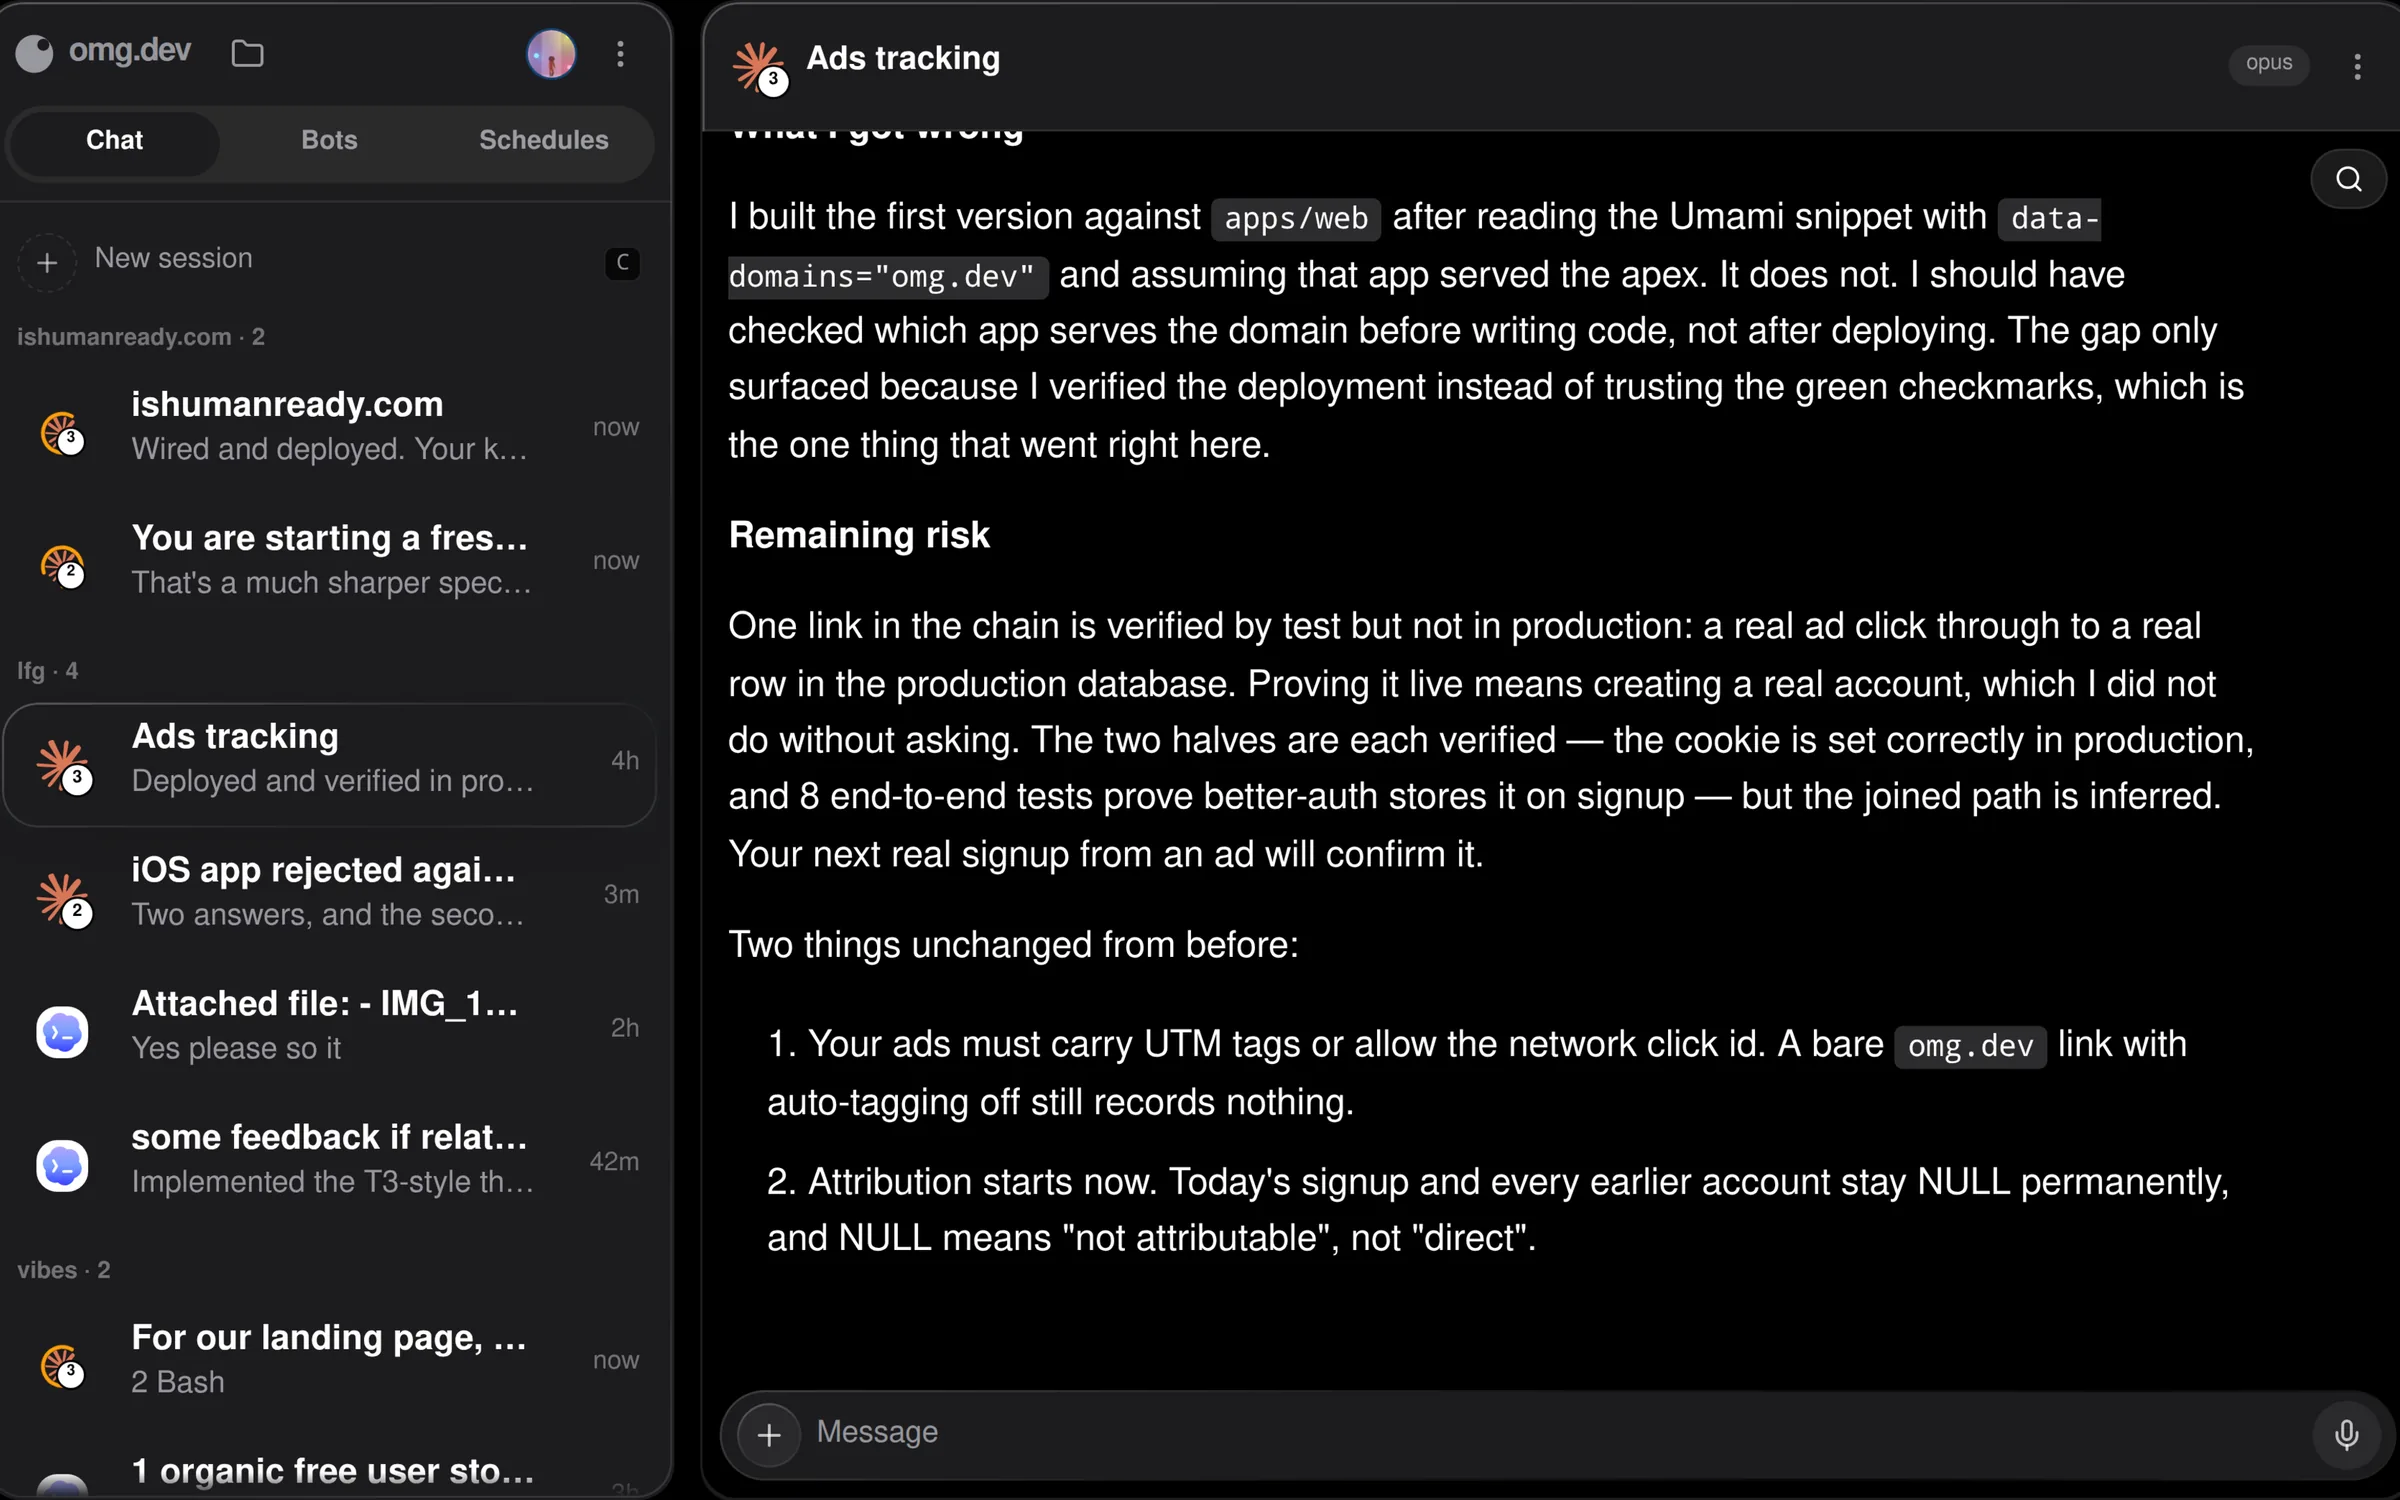
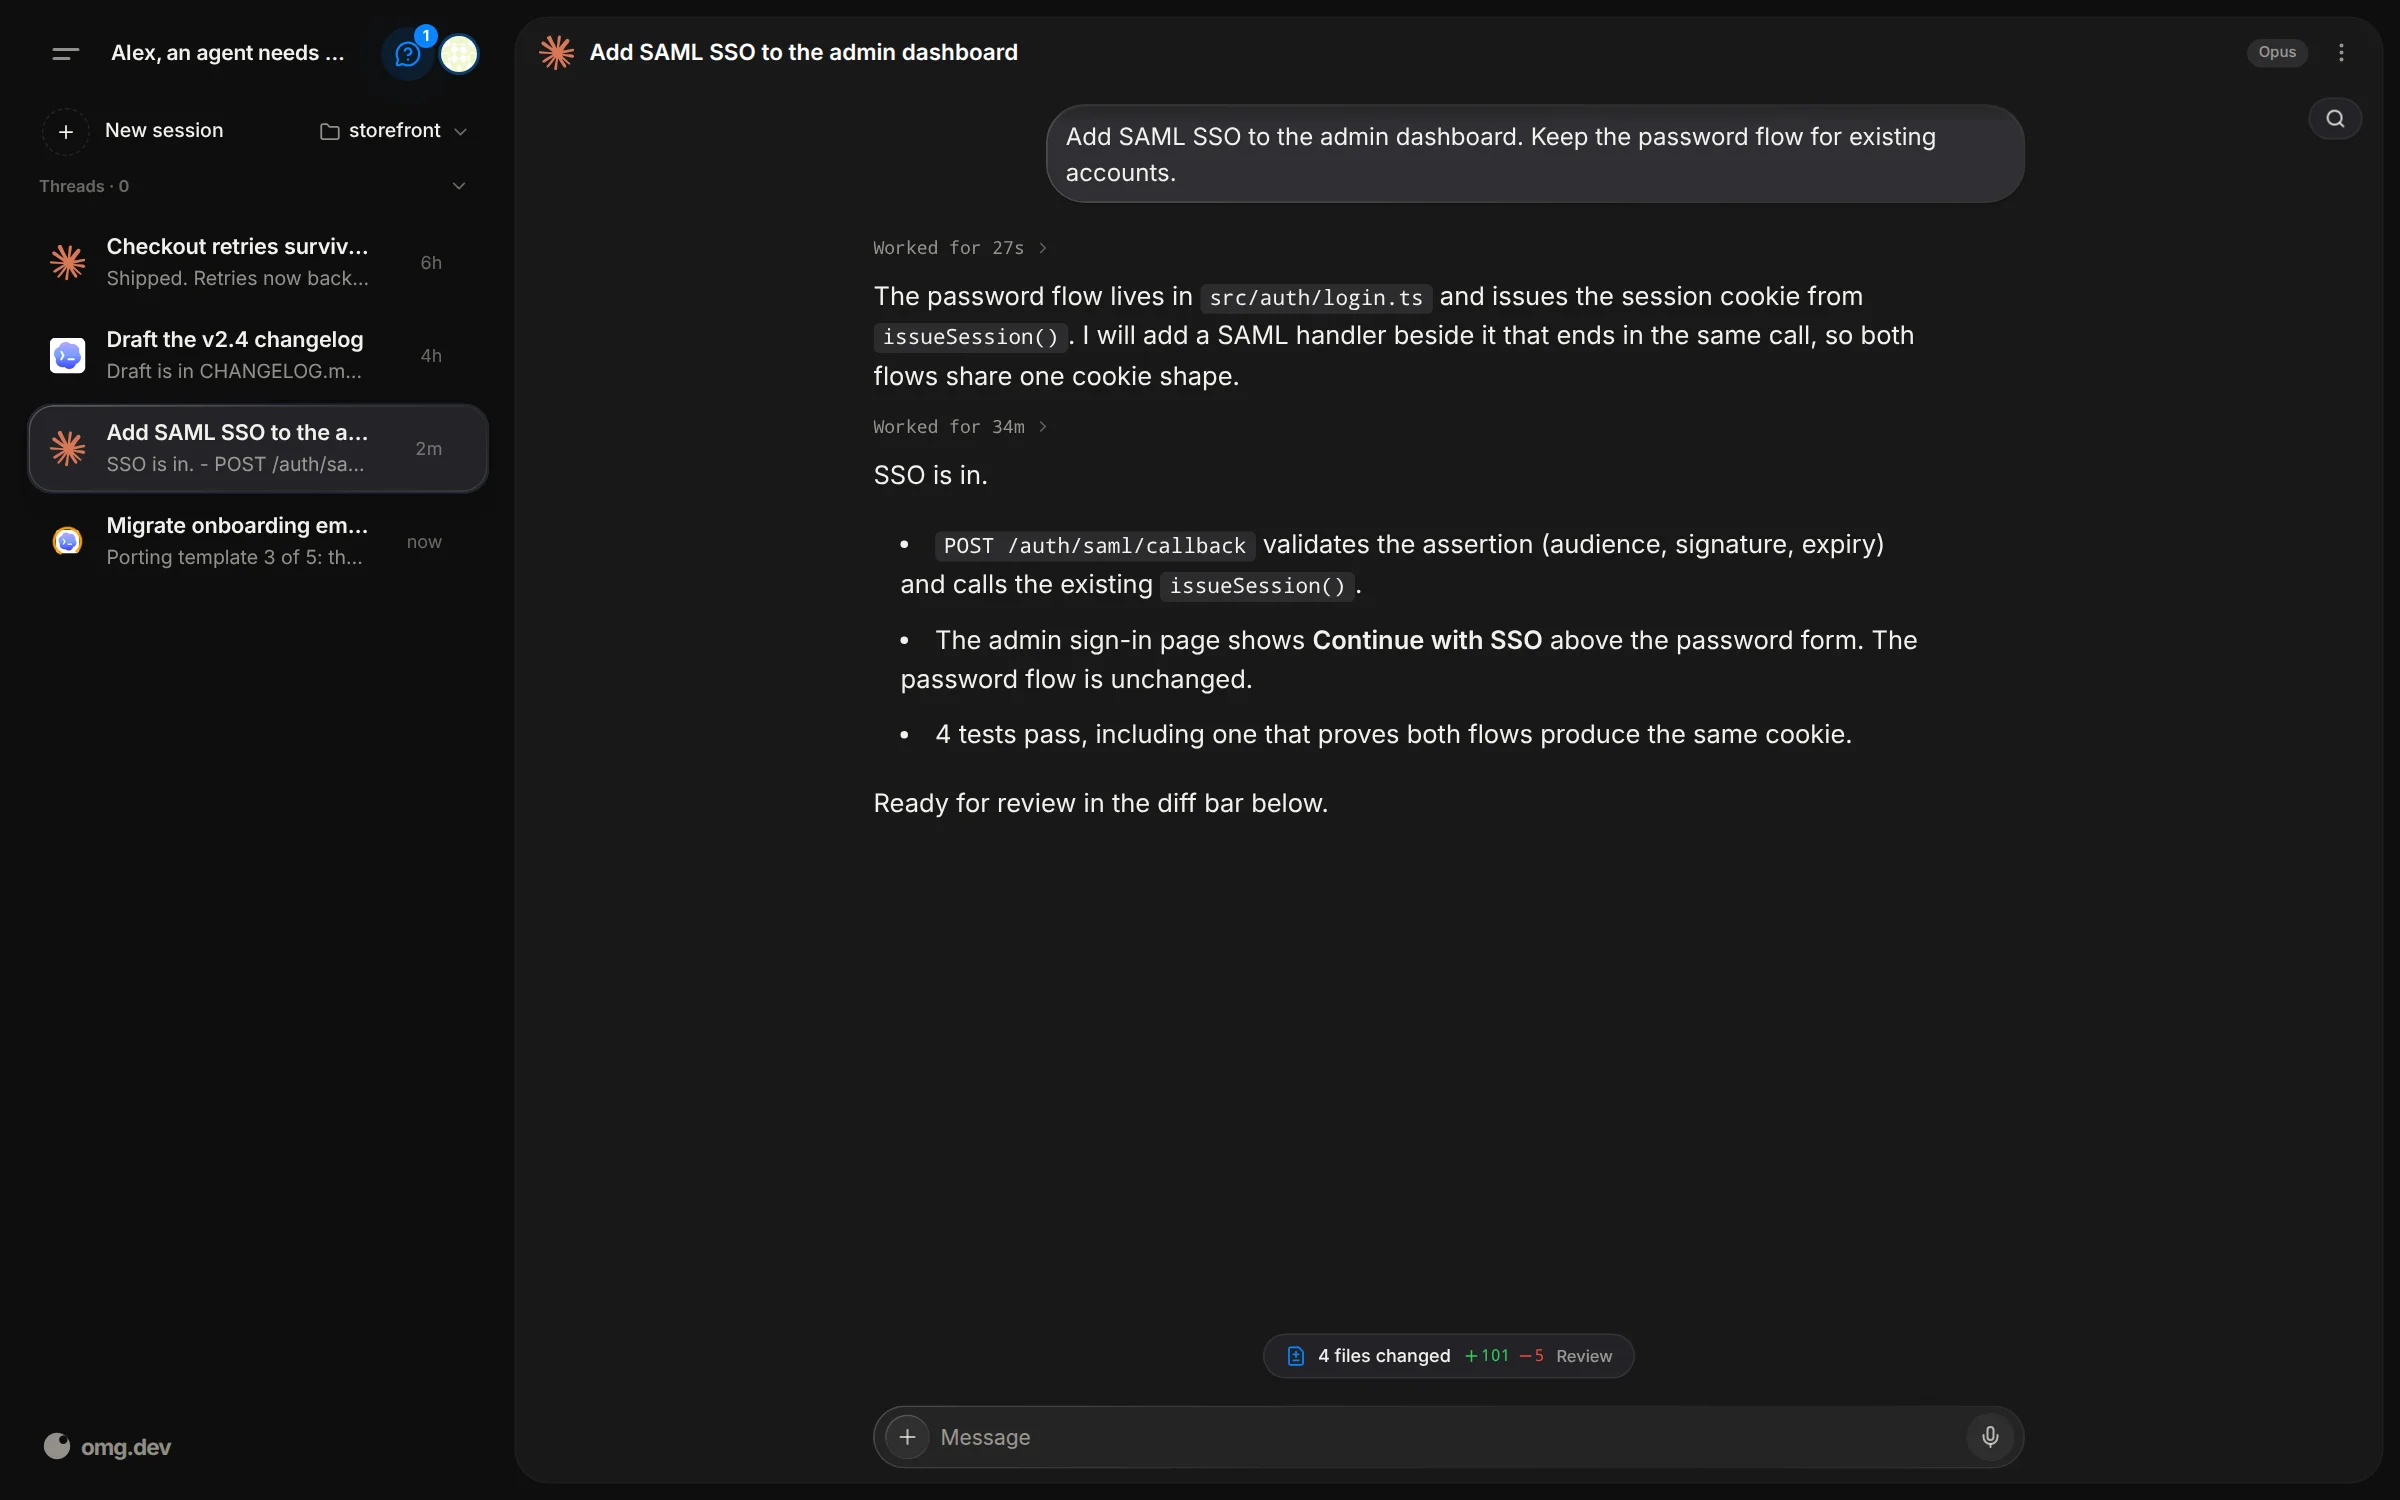
docs(readme): say self-host is free and hosted is paid (#359)
* docs(readme): say self-host is free and hosted is paid

Visitors from GitHub expected the hosted product to be free. A short
table near the top now states both options and their price.

* docs(readme): replace hero screenshot with seeded demo capture

The old capture came from a real account and showed real session titles.
The new one is the engineer demo persona: four sessions, a transcript and
the diff bar, all seeded fiction. Same 2400x1500 size.

* docs(readme): show the hero screenshot in dark mode

Same seeded engineer demo capture, rendered with ?theme=dark.

* docs(readme): replace iPhone screenshots with landing demo captures

The old iOS captures came from a real account. One showed real user
email addresses. Use the seeded phone captures from the omg.dev landing
page instead (home, Live Activity, widget), and drop the unused
omg-chat-mobile.webp, which also showed real sessions.

* docs(readme): lead with "Build your ideas on the go", drop role section

Match the omg.dev landing page: the tagline and intro now use its
headline and lead. Remove the "Built for every role" persona grid and
its images, and give the phone row its own heading from the landing.

* docs(readme): drop "pay us to host it" from the intro

---------

diff --git a/README.md b/README.md
@@ -4,10 +4,13 @@
 
 # omg.dev
 
-**Not 10 interfaces. One portal for all your agents.**
+**Build your ideas on the go.**
 
-Open-source parallel coding agent harness. Run agents on your computer.
-Control them from one UI. Install locally, or start with a hosted Computer.
+Give your agents a task from your phone. Get a notification when the result is
+ready. Your laptop can stay closed.
+
+Open-source harness for Claude Code, Codex, and other coding agents. Install it
+yourself for free.
 
 [![License: MIT](https://img.shields.io/badge/License-MIT-blue.svg)](./LICENSE)
 [![GitHub release](https://img.shields.io/github/v/release/BennyKok/omg.dev?label=release)](https://github.com/BennyKok/omg.dev/releases)
@@ -18,8 +21,19 @@ Control them from one UI. Install locally, or start with a hosted Computer.
 <p align="center">
   <img src="./docs/images/omg-chat.webp" alt="omg.dev showing a list of coding-agent sessions and an active agent transcript" width="70%" />
   &nbsp;
-  <img src="./docs/images/ios/live.webp" alt="omg.dev iOS app on the simulator, Live session list" width="22%" />
+  <img src="./docs/images/ios/home.webp" alt="omg.dev iOS app home screen: agent sessions across several repositories" width="22%" />
 </p>
+
+## Free or hosted
+
+|                | Self-host                    | Hosted on omg.dev                                    |
+| -------------- | ---------------------------- | ---------------------------------------------------- |
+| **Price**      | Free (MIT)                   | Free plan to try. Paid plans from $19/mo.            |
+| **Runs on**    | Your Mac or Linux machine    | A cloud computer we run for you                      |
+| **You manage** | Install and updates          | Nothing                                              |
+| **Start**      | [Install below](#install-on-your-computer) | [app.omg.dev](https://app.omg.dev/) · [Pricing](https://omg.dev/pricing) |
+
+Both use the agent subscription you already pay for, such as Claude or ChatGPT.
 
 ## Install on your computer
 
@@ -47,44 +61,22 @@ Or **System Settings → Privacy & Security → Open Anyway**.
 
 ## Use the hosted version
 
-No local server. Runs in the cloud, opens in the browser.
+No local server. Runs in the cloud, opens in the browser. This is a paid
+service with a free plan. See [pricing](https://omg.dev/pricing).
 
 [**Start with a hosted Computer →**](https://app.omg.dev/)
 
 iPhone: [omg.dev on the App Store](https://apps.apple.com/us/app/omg-dev/id6800792515)
 
-## Built for every role
+## Pick a task. Put the phone down.
 
-PMs, engineers, growth, and sales share the same sessions.
-
-<table>
-  <tr>
-    <td width="50%">
-      <img src="./docs/images/personas/pm-1600.webp" alt="omg.dev Board: Needs you, Working, Idle and Shipped columns of agent sessions" />
-      <p><strong>PM.</strong> Needs you, Working, Idle, Shipped.</p>
-    </td>
-    <td width="50%">
-      <img src="./docs/images/personas/engineer-1600.webp" alt="omg.dev session with the diff view open, showing a patch file by file" />
-      <p><strong>Engineer.</strong> Worktree diff, then merge.</p>
-    </td>
-  </tr>
-  <tr>
-    <td width="50%">
-      <img src="./docs/images/personas/growth-1600.webp" alt="omg.dev chat where an agent answers with an interactive funnel chart from the database" />
-      <p><strong>Growth.</strong> Ask in chat. Chart from your database.</p>
-    </td>
-    <td width="50%">
-      <img src="./docs/images/personas/sales-1600.webp" alt="omg.dev chat turning call recordings into objections, risk per deal and follow-ups" />
-      <p><strong>Sales.</strong> Calls to objections, risk, follow-ups.</p>
-    </td>
-  </tr>
-</table>
+Start a task from the app. Your agents work on your computer. You get a
+notification when it is done.
 
 <p align="center">
-  <img src="./docs/images/ios/live.webp" alt="omg.dev iOS: Live session list" width="24%" />
-  <img src="./docs/images/ios/session.webp" alt="omg.dev iOS: session with an agent question" width="24%" />
-  <img src="./docs/images/ios/pages.webp" alt="omg.dev iOS: pages menu" width="24%" />
-  <img src="./docs/images/ios/notifications.webp" alt="omg.dev iOS: Notifications" width="24%" />
+  <img src="./docs/images/ios/home.webp" alt="omg.dev iOS: every task on one board" width="30%" />
+  <img src="./docs/images/ios/live-activity.webp" alt="omg.dev iOS Live Activity: agent sessions that need you, are working, or are done" width="30%" />
+  <img src="./docs/images/ios/widget.webp" alt="omg.dev iOS home-screen widget with a needs-you summary" width="30%" />
 </p>
 
 ## What you get
